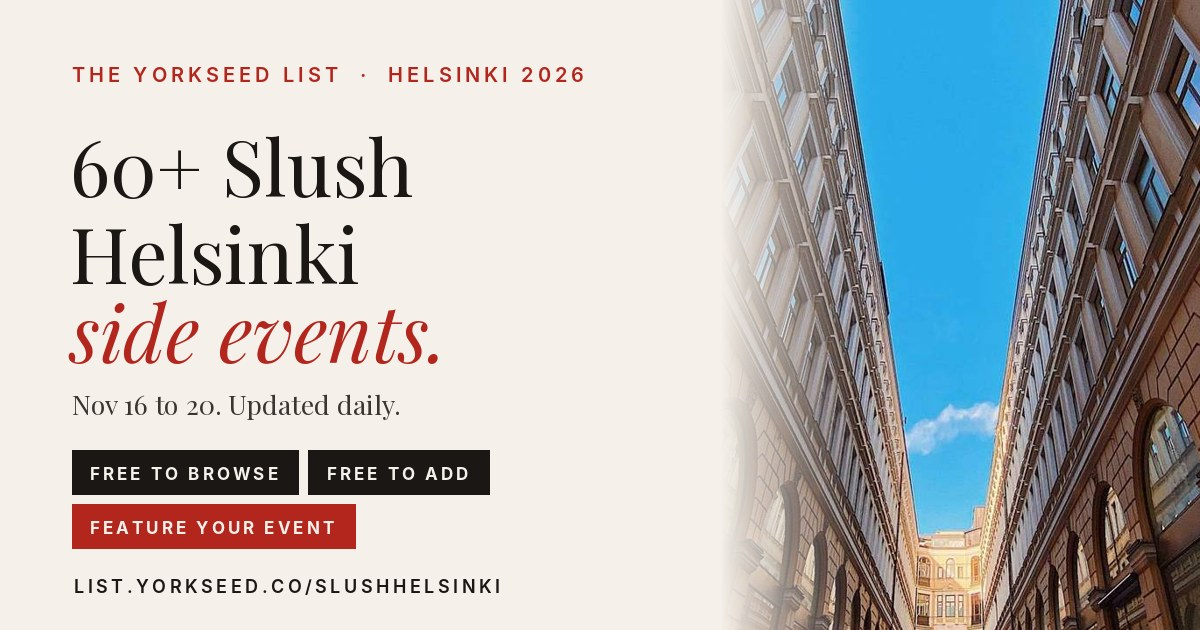
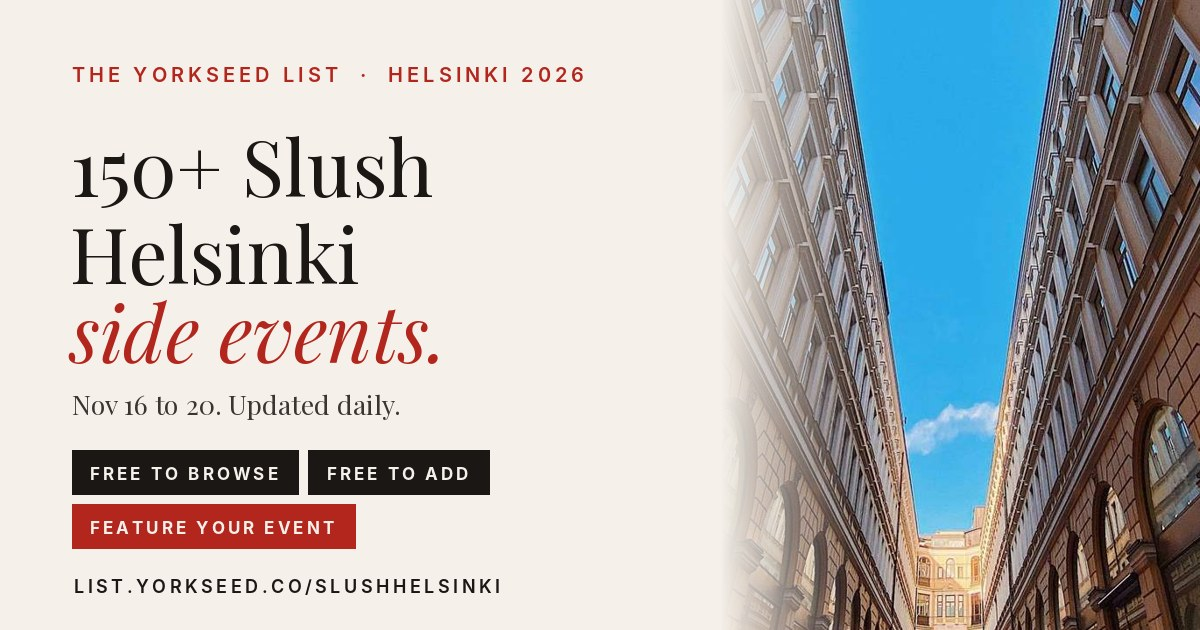
[deploy] List: refresh Slush share card (150+)
Claude-Session: https://claude.ai/code/session_01CjS7Kfsk9vaJ96TX3uaksN

Changed region(s): [[0.0617, 0.2111, 0.37, 0.3317]]

diff --git a/list/go/slush-helsinki/index.html b/list/go/slush-helsinki/index.html
@@ -1,10 +1,10 @@
 <!DOCTYPE html>
 <html lang="en"><head><meta charset="utf-8"><meta name="viewport" content="width=device-width,initial-scale=1">
-<title>64 Slush Helsinki 2026 Side Events | The Yorkseed List</title><meta name="description" content="Every Slush Helsinki 2026 side event in one list, updated daily. Free to browse, free to add your event, with the option to feature it."><meta name="robots" content="noindex">
+<title>153 Slush Helsinki 2026 Side Events | The Yorkseed List</title><meta name="description" content="Every Slush Helsinki 2026 side event in one list, updated daily. Free to browse, free to add your event, with the option to feature it."><meta name="robots" content="noindex">
 <link rel="canonical" href="https://list.yorkseed.co/slush-helsinki-2026-side-events/">
 <meta property="og:type" content="website"><meta property="og:site_name" content="The Yorkseed List"><meta property="og:url" content="https://list.yorkseed.co/SlushHelsinki">
-<meta property="og:title" content="64 Slush Helsinki 2026 Side Events | The Yorkseed List"><meta property="og:description" content="Every Slush Helsinki 2026 side event in one list, updated daily. Free to browse, free to add your event, with the option to feature it.">
+<meta property="og:title" content="153 Slush Helsinki 2026 Side Events | The Yorkseed List"><meta property="og:description" content="Every Slush Helsinki 2026 side event in one list, updated daily. Free to browse, free to add your event, with the option to feature it.">
 <meta property="og:image" content="https://list.yorkseed.co/list/img/og-share-slush-helsinki.jpg"><meta property="og:image:width" content="1200"><meta property="og:image:height" content="630">
-<meta name="twitter:card" content="summary_large_image"><meta name="twitter:title" content="64 Slush Helsinki 2026 Side Events | The Yorkseed List"><meta name="twitter:image" content="https://list.yorkseed.co/list/img/og-share-slush-helsinki.jpg">
+<meta name="twitter:card" content="summary_large_image"><meta name="twitter:title" content="153 Slush Helsinki 2026 Side Events | The Yorkseed List"><meta name="twitter:image" content="https://list.yorkseed.co/list/img/og-share-slush-helsinki.jpg">
 <meta http-equiv="refresh" content="0; url=/#slush-helsinki"><script>location.replace('/#slush-helsinki');</script>
 </head><body style="background:#F5F1EA"></body></html>
